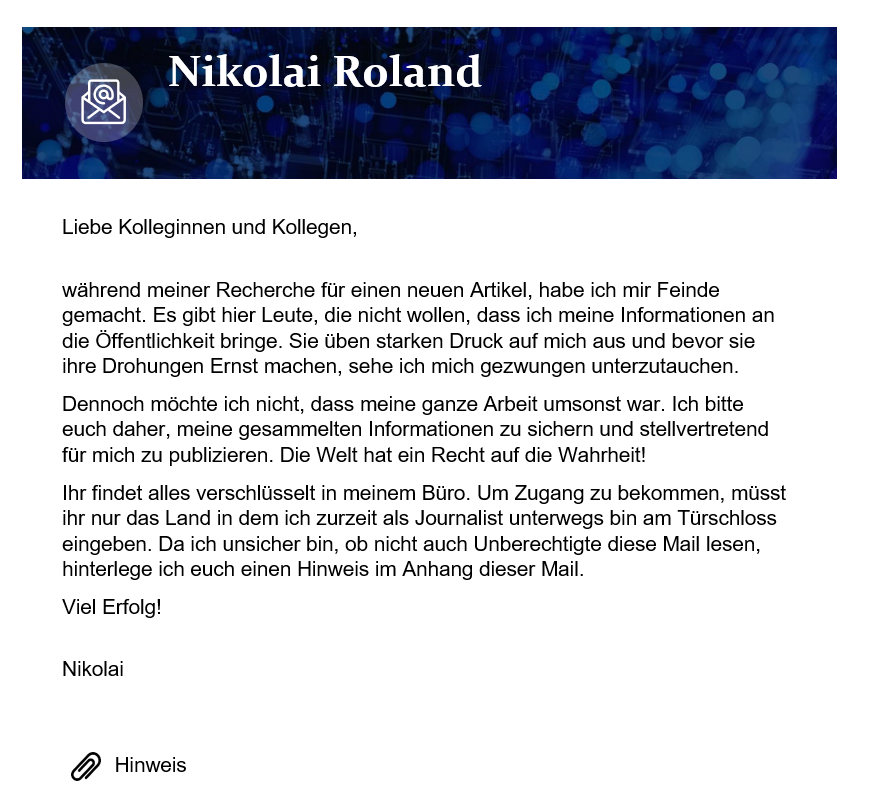
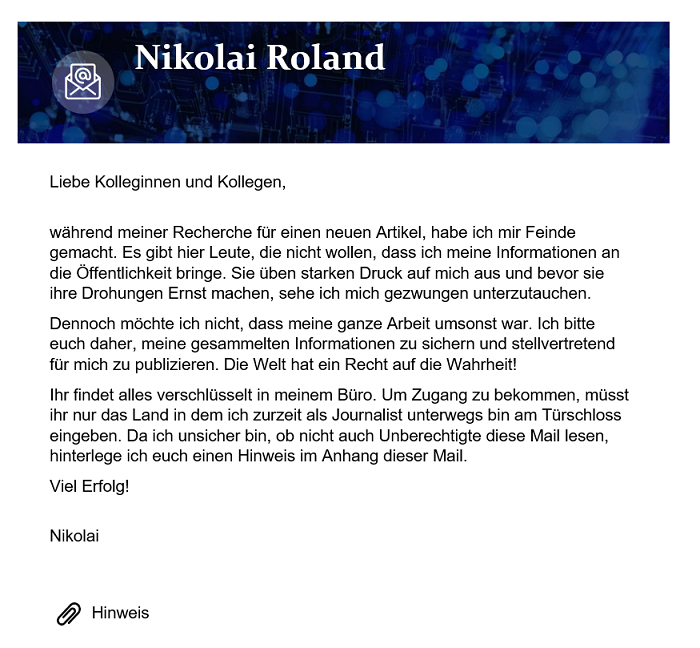
Adjusted Mail Size

diff --git a/lib/dialogs/mail_dialog.dart b/lib/dialogs/mail_dialog.dart
@@ -1,6 +1,5 @@
 import 'package:escape_game/dialogs/hint_dialog.dart';
 import 'package:escape_game/features/app_state/app_state_providers.dart';
-import 'package:escape_game/features/countdown/countdown_provider.dart';
 import 'package:escape_game/widgets/interactive_canvas.dart';
 import 'package:flutter/material.dart';
 import 'package:hooks_riverpod/hooks_riverpod.dart';
@@ -21,11 +20,12 @@ class MailDialog extends StatelessWidget {
       content: Stack(
         children: [
           InteractiveCanvas(
+            width: 700,
             imageName: 'assets/mail.png',
             fields: [
               InteractiveField(
-                top: 740,
-                left: 60,
+                top: 590,
+                left: 40,
                 width: 150,
                 height: 50,
                 onTap: () {
@@ -39,8 +39,8 @@ class MailDialog extends StatelessWidget {
             ],
           ),
           Positioned(
-            top: 120,
-            left: 170,
+            top: 90,
+            left: 140,
             child: Text(
               context.read(dateNow).state,
               style: Theme.of(context)
